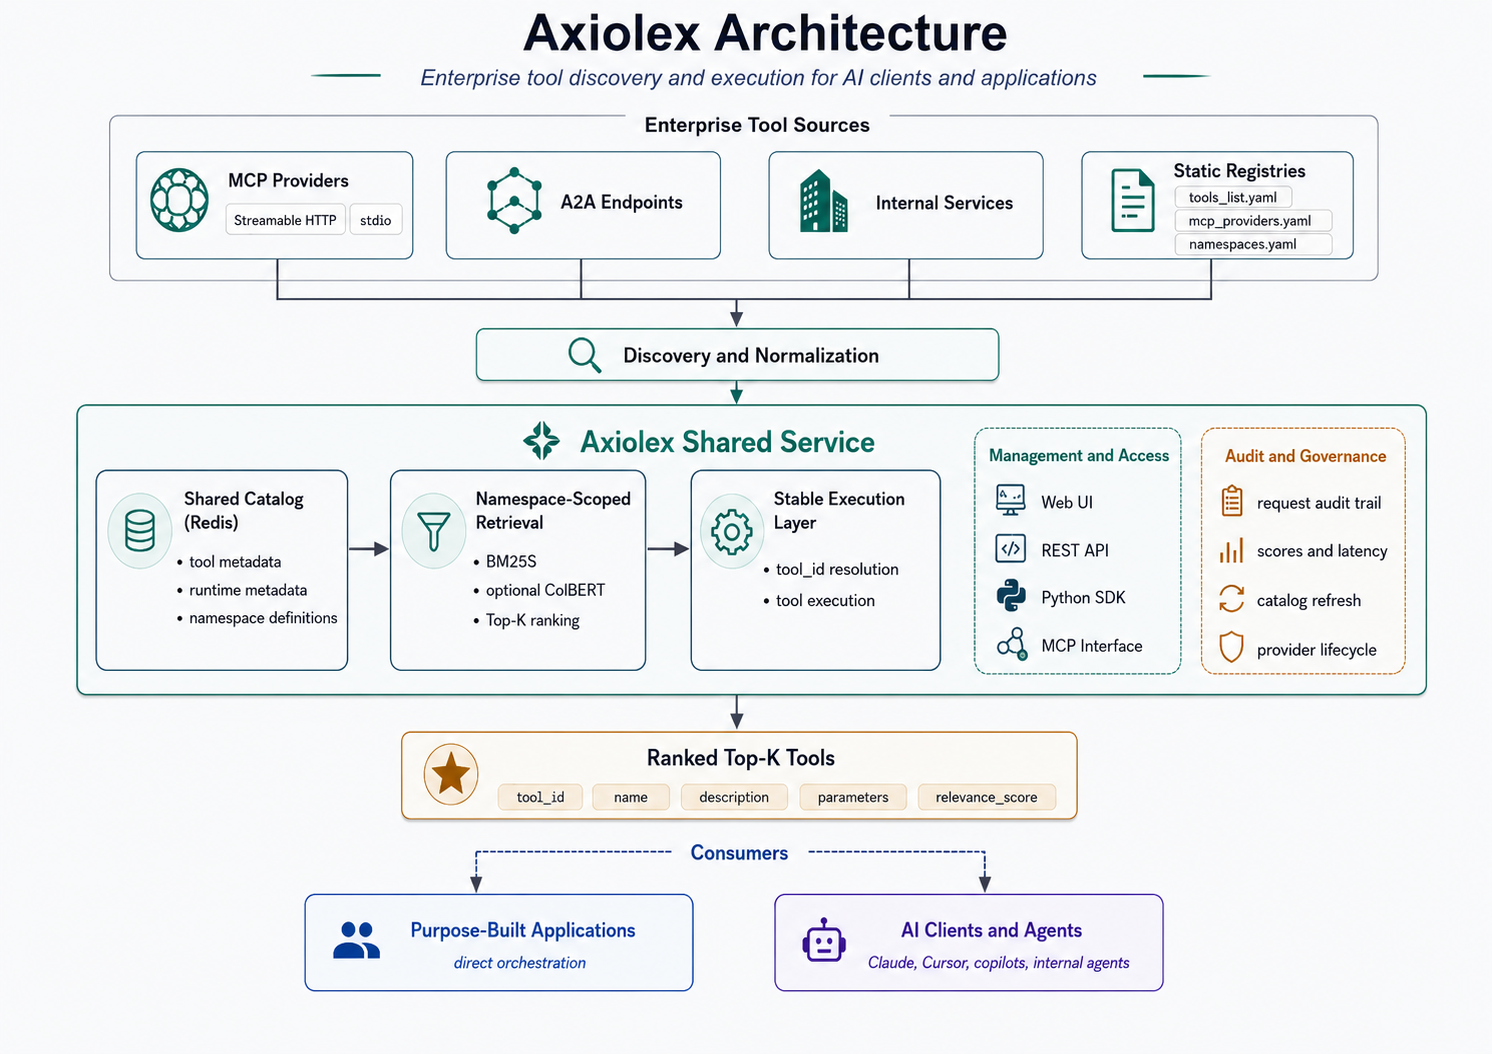
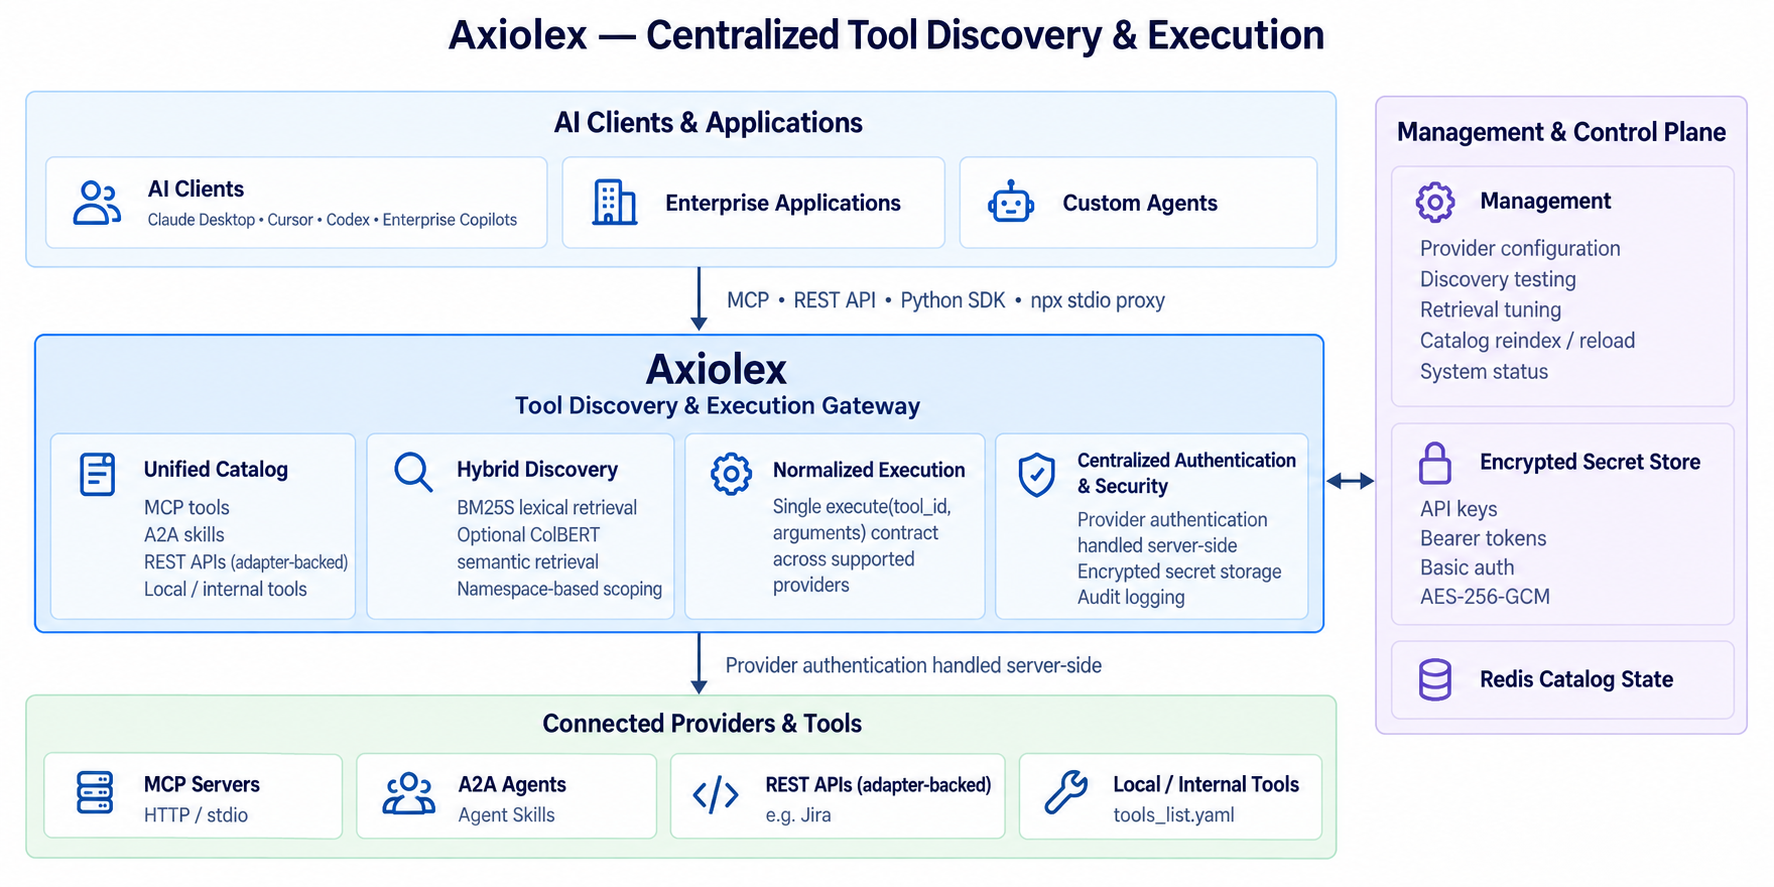
Replace ASCII diagram with architecture image, tighten catalog bullet
- Swap inline ASCII flow diagram for axiolex-architecture.png (raw GitHub URL)
- Update Unified Tool Catalog bullet: "A2A agent skills" → "A2A skills", "internal services" → "local/internal tools"

Generated with [Devin](https://devin.ai)

Changed region(s): [[0.0, 0.0, 0.9866, 0.9741], [0.9558, 0.7914, 0.9866, 0.8219], [0.7708, 0.0609, 0.8016, 0.0913]]

diff --git a/README.md b/README.md
@@ -8,11 +8,11 @@
 
 Axiolex connects **MCP tools, A2A agent skills, REST APIs, and internal enterprise services** through a shared catalog and execution layer. **Claude Desktop, Cursor, Codex, Microsoft Copilot, enterprise applications, and custom agents** can access relevant capabilities without configuring every downstream provider, endpoint, or credential directly.
 
-* **Unified Tool Catalog:** index MCP tools, A2A agent skills, REST APIs, and internal services in one searchable catalog.
+* **Unified Tool Catalog:** index MCP tools, A2A skills, REST APIs, and local/internal tools in one searchable catalog.
 * **Intent-Driven Discovery:** rank the Top-K relevant tools using BM25S and optional ColBERT, with namespace-based business-domain scoping.
 * **Normalized Execution:** use one `execute(tool_id, arguments)` contract while Axiolex handles transport, endpoint resolution, authentication, and response normalization.
 * **Enterprise Provider Integration:** connect MCP servers and A2A agents directly ; for REST-based providers integrate thru MCP adapters (included example: `atlassian_rest_to_mcp` Jira adapter)
-* **Flexible Access:** Python SDK (`pip install axiolex`), REST API, and MCP access — including the stdio **MCP gateway proxy** via `npx` ([`@axiolex/mcp-gateway`](https://www.npmjs.com/package/@axiolex/mcp-gateway)) for Claude Desktop and Cursor integration.
+* **Flexible Access:** Python **SDK** (`pip install axiolex`), REST API, and MCP access — including the stdio **MCP gateway proxy** via `npx` ([`@axiolex/mcp-gateway`](https://www.npmjs.com/package/@axiolex/mcp-gateway)) for Claude Desktop and Cursor integration.
 * **Management Dashboard:** configure providers, namespaces, credentials, retrieval settings, and test discovery and execution from the web UI.
 
 ## Why Axiolex?
@@ -28,21 +28,7 @@ Whether for a **power user connecting multiple MCP servers** or an **enterprise 
 * **Centralized integration:** connect providers once rather than maintaining them across individual clients and applications.
 * **Governed execution:** normalize stdio, HTTP, A2A, and REST behind one gateway with server-side authentication and audit logging.
 
-```text
-User Request
-     ↓
-Intent + Optional Namespace (e.g., `hr`, `legal`, `sales`)
-     ↓
-Axiolex Discovery (`axiolex discover_tools`)
-     ↓
-Top-K Relevant Tools
-     ↓
-Client / LLM Selects
-     ↓
-Axiolex Execute (`axiolex execute_tool`)
-     ↓
-MCP / A2A / REST Provider
-```
+![Axiolex Architecture](https://raw.githubusercontent.com/vrraj/axiolex/main/images/axiolex-architecture.png)
 
 
 ## Axiolex Tool Catalog
